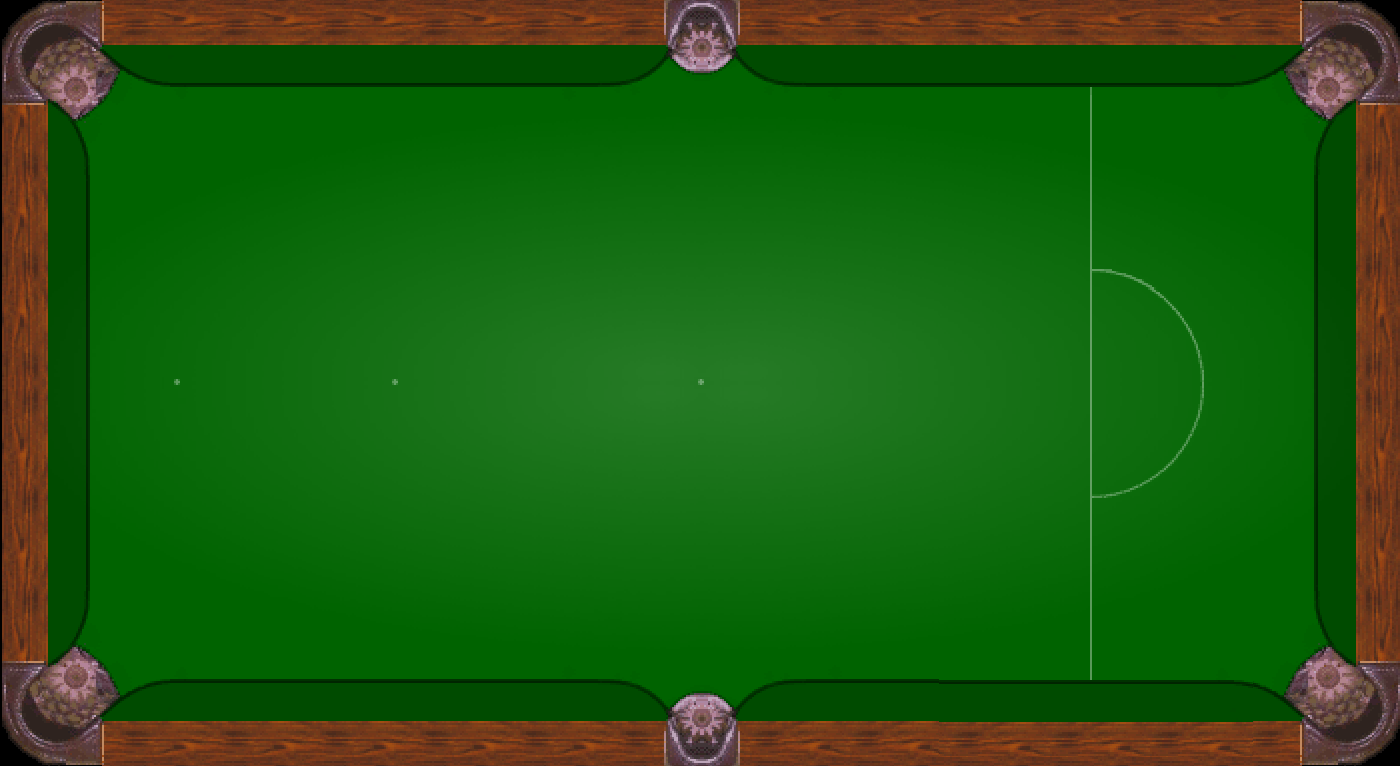
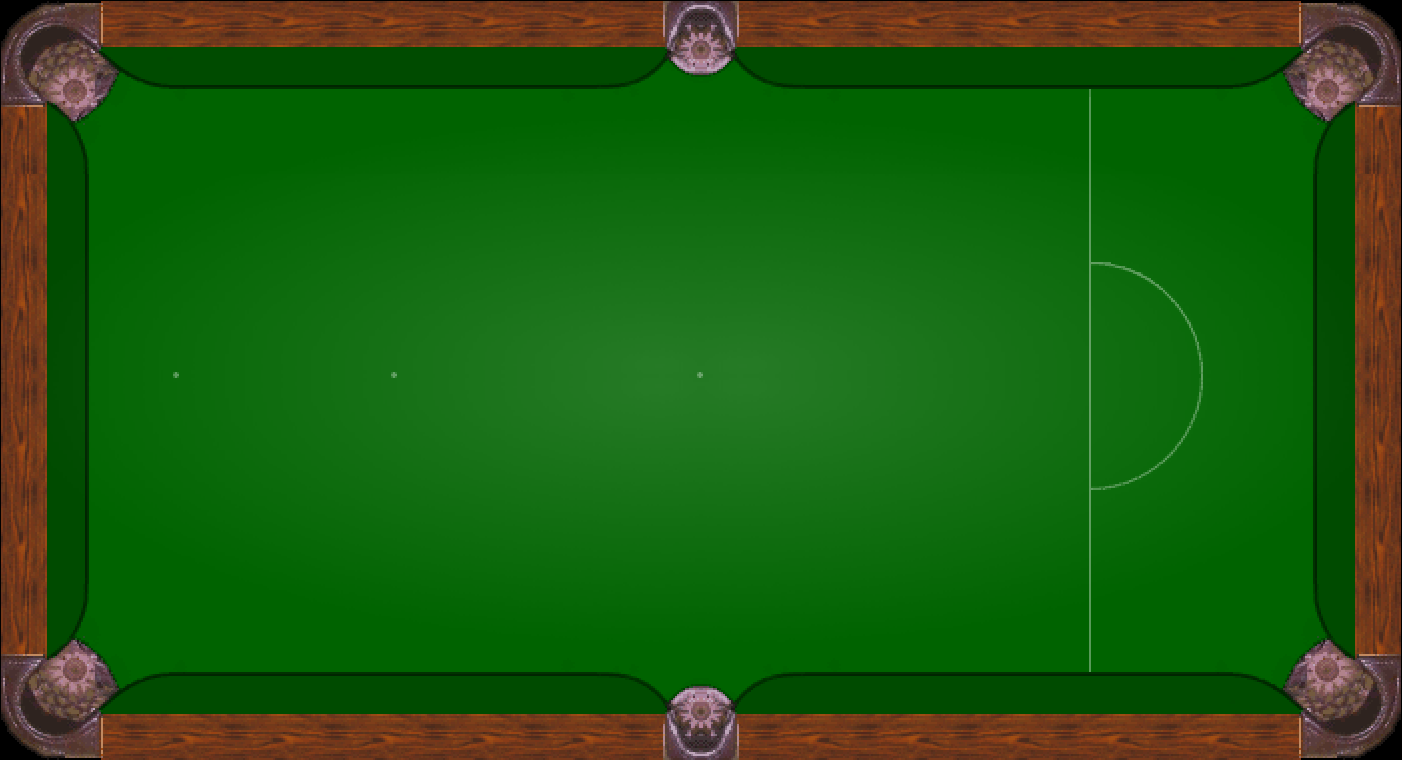
fixed funky game table

Changed region(s): [[0.0, 0.0, 1.0, 1.0], [0.8293, 0.5145, 0.86, 0.6053]]

diff --git a/src/classes/SnookrGameFunky.js b/src/classes/SnookrGameFunky.js
@@ -9,7 +9,7 @@ class SnookrGameFunky extends SnookrGame {
             forwardSpinLinearSlowdownRatio: 0.05,
             slowdownRatio: 0.987,
             sideSpinScale: 0.1,
-            maxShotPower: 4
+            maxShotPower: 5
         };
 	}
 	
@@ -35,28 +35,28 @@ class SnookrGameFunky extends SnookrGame {
         const stepX = radius + maxRnd;
         const stepY = radius * Math.sqrt(3) + 2 * maxRnd;
         const ballSet = new SnookrBallSet([
-            new SnookrBall(radius, 'white', new Point(43.9, 109.1)),
+            new SnookrBall(radius, 'white', new Point(44.0, 108.8)),
 
-            new SnookrBall(radius, 'yellow', new Point(49.6, 109.1)),
-            new SnookrBall(radius, 'green', new Point(26.9, 109.1)),
-            new SnookrBall(radius, 'brown', new Point(38.2, 109.1)),
-            new SnookrBall(radius, 'blue', new Point(38.2, 70.1)),
-            new SnookrBall(radius, 'pink', new Point(38.2, 39.5)),
-            new SnookrBall(radius, 'black', new Point(38.2, 17.7)),
+            new SnookrBall(radius, 'yellow', new Point(49.6, 108.8)),
+            new SnookrBall(radius, 'green', new Point(27.2, 108.8)),
+            new SnookrBall(radius, 'brown', new Point(38.4, 108.8)),
+            new SnookrBall(radius, 'blue', new Point(38.4, 69.9)),
+            new SnookrBall(radius, 'pink', new Point(38.4, 39.3)),
+            new SnookrBall(radius, 'black', new Point(38.4, 17.5)),
 
-            new SnookrBall(radius, 'red', new Point(38.2, 39.5 - 2 * maxRnd - 2 * radius)),
+            new SnookrBall(radius, 'red', new Point(38.4, 39.5 - 2 * maxRnd - 2 * radius)),
 
-            new SnookrBall(radius, 'red', new Point(38.2 - stepX, 39.5 - 2 * maxRnd - 2 * radius - stepY)),
-            new SnookrBall(radius, 'red', new Point(38.2 + stepX, 39.5 - 2 * maxRnd - 2 * radius - stepY)),
+            new SnookrBall(radius, 'red', new Point(38.4 - stepX, 39.5 - 2 * maxRnd - 2 * radius - stepY)),
+            new SnookrBall(radius, 'red', new Point(38.4 + stepX, 39.5 - 2 * maxRnd - 2 * radius - stepY)),
 
-            new SnookrBall(radius, 'red', new Point(38.2 - 2 * stepX, 39.5 - 2 * maxRnd - 2 * radius - 2 * stepY)),
-            new SnookrBall(radius, 'red', new Point(38.2, 39.5 - 2 * maxRnd - 2 * radius - 2 * stepY)),
-            new SnookrBall(radius, 'red', new Point(38.2 + 2 * stepX, 39.5 - 2 * maxRnd - 2 * radius - 2 * stepY)),
+            new SnookrBall(radius, 'red', new Point(38.4 - 2 * stepX, 39.5 - 2 * maxRnd - 2 * radius - 2 * stepY)),
+            new SnookrBall(radius, 'red', new Point(38.4, 39.5 - 2 * maxRnd - 2 * radius - 2 * stepY)),
+            new SnookrBall(radius, 'red', new Point(38.4 + 2 * stepX, 39.5 - 2 * maxRnd - 2 * radius - 2 * stepY)),
 
-            new SnookrBall(radius, 'red', new Point(38.2 - 3 * stepX, 39.5 - 2 * maxRnd - 2 * radius - 3 * stepY)),
-            new SnookrBall(radius, 'red', new Point(38.2 - stepX, 39.5 - 2 * maxRnd - 2 * radius - 3 * stepY)),
-            new SnookrBall(radius, 'red', new Point(38.2 + stepX, 39.5 - 2 * maxRnd - 2 * radius - 3 * stepY)),
-            new SnookrBall(radius, 'red', new Point(38.2 + 3 * stepX, 39.5 - 2 * maxRnd - 2 * radius - 3 * stepY)),
+            new SnookrBall(radius, 'red', new Point(38.4 - 3 * stepX, 39.5 - 2 * maxRnd - 2 * radius - 3 * stepY)),
+            new SnookrBall(radius, 'red', new Point(38.4 - stepX, 39.5 - 2 * maxRnd - 2 * radius - 3 * stepY)),
+            new SnookrBall(radius, 'red', new Point(38.4 + stepX, 39.5 - 2 * maxRnd - 2 * radius - 3 * stepY)),
+            new SnookrBall(radius, 'red', new Point(38.4 + 3 * stepX, 39.5 - 2 * maxRnd - 2 * radius - 3 * stepY)),
         ]);
 
         ballSet.forEach(ball => ball.randomizePosition(this.getBallRandomness()));

diff --git a/src/classes/SnookrTableFunky.js b/src/classes/SnookrTableFunky.js
@@ -4,22 +4,21 @@ class SnookrTableFunky extends SnookrTable {
     }
 
     initDimensions() {
-        this.outerWidth = 76.6;
-        this.outerLength = 140.0;
+        this.outerWidth = 76.0;
+        this.outerLength = 140.2;
     }
 
     createPots() {
-        const cornerR = 7.6;
+        const cornerR = 7.8;
         const cornerCenter = 4.2;
-        const midCenter = 3.4;
-        const midR = 3.6;
+        const midR = 3.5;
         return [
             {center: Point.create(cornerCenter, cornerCenter), radius: cornerR},
             {center: Point.create(cornerCenter, this.outerLength - cornerCenter), radius: cornerR},
-            {center: Point.create(this.outerWidth - cornerCenter, cornerCenter), radius: cornerR},
-            {center: Point.create(this.outerWidth - cornerCenter, this.outerLength - cornerCenter), radius: cornerR},
-            {center: Point.create(this.outerWidth - midCenter, this.outerLength / 2), radius: midR},
-            {center: Point.create(midCenter, this.outerLength / 2), radius: midR},
+            {center: Point.create(this.outerWidth - cornerCenter - 0.8, cornerCenter), radius: cornerR},
+            {center: Point.create(this.outerWidth - cornerCenter - 0.8, this.outerLength - cornerCenter), radius: cornerR},
+            {center: Point.create(this.outerWidth - 4, this.outerLength / 2), radius: midR},
+            {center: Point.create(3.9, this.outerLength / 2), radius: midR},
         ];
     }
 
@@ -31,10 +30,10 @@ class SnookrTableFunky extends SnookrTable {
         const l = 1400;
         const w = 766;
 
-        const top = 84;
-        const bottom = 85;
-        const left = 88;
-        const right = 84;
+        const top = 93;
+        const bottom = 86;
+        const left = 87;
+        const right = 85;
 
         return [
             [71, 0],
